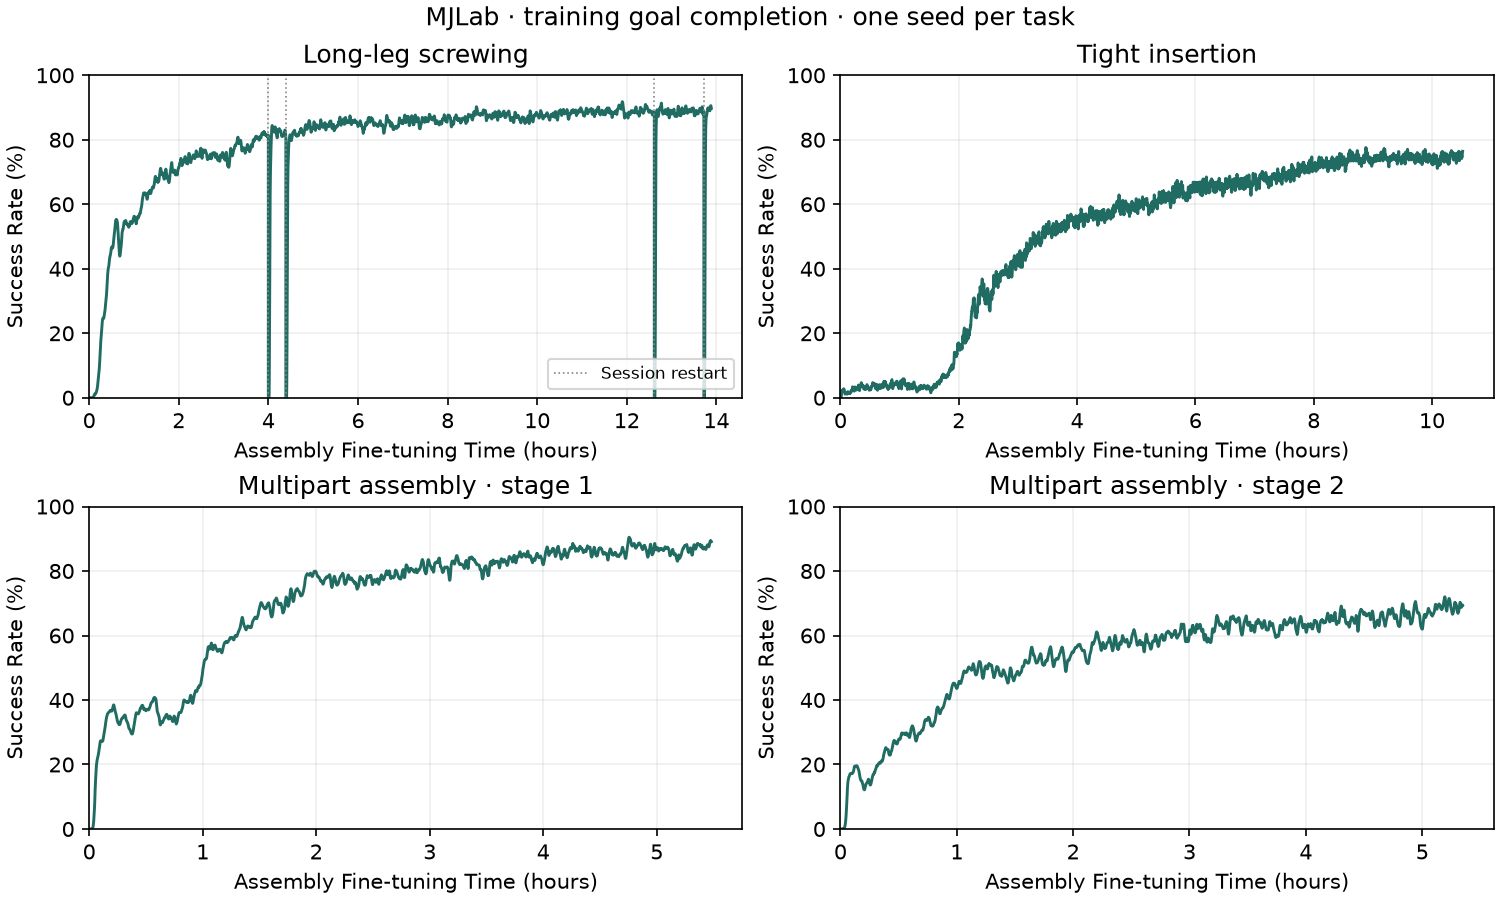
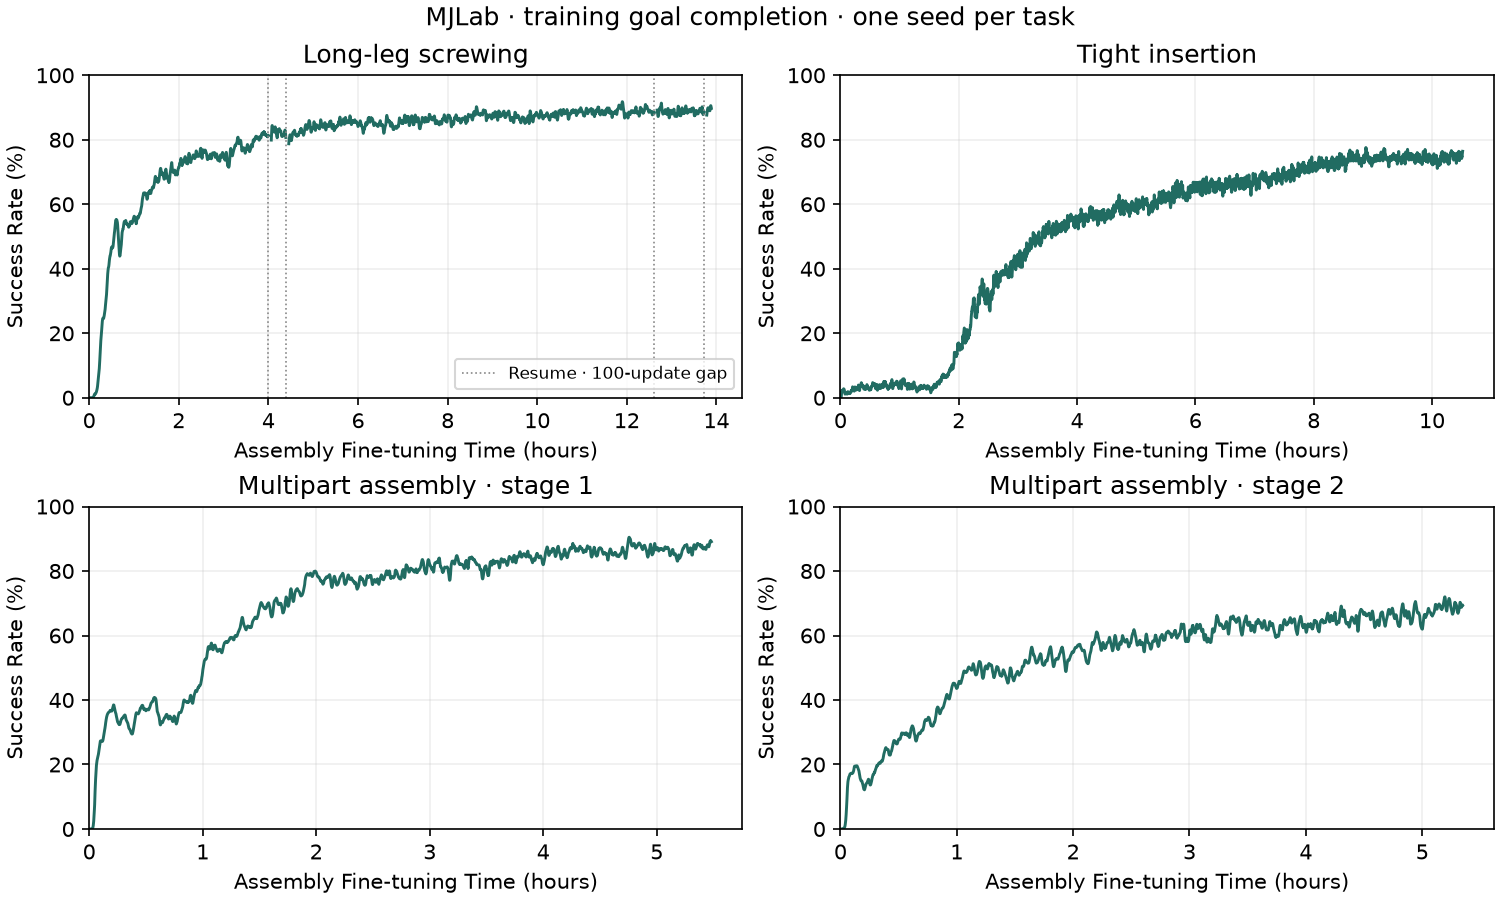
Mark resume counter warm-up as gaps in assembly overview

Changed region(s): [[0.1533, 0.1556, 0.2147, 0.4356], [0.4293, 0.1244, 0.4907, 0.3733], [0.3373, 0.4044, 0.4907, 0.4356]]

diff --git a/mjlab/scripts/plot_reference_curves.py b/mjlab/scripts/plot_reference_curves.py
@@ -18,6 +18,8 @@ matplotlib.use("Agg")
 import matplotlib.pyplot as plt
 import numpy as np
 
+RESTART_DISPLAY_WARMUP = 100
+
 
 def trailing_mean(values, restarts, window=20):
     result, start = [], 0
@@ -86,11 +88,25 @@ def main():
         overview_axis.set_ylabel("Mean rollout reward")
         overview_axis.grid(alpha=0.2)
         smoothed_success = trailing_mean(ys[1], restarts)
+        display_success = smoothed_success.copy()
+        restart_gaps = []
+        for start in map(int, np.flatnonzero(restarts)):
+            stop = min(start + RESTART_DISPLAY_WARMUP, len(rows))
+            display_success[start:stop] = np.nan
+            restart_gaps.append(
+                {
+                    "first_epoch": int(columns["epoch"][start]),
+                    "last_epoch": int(columns["epoch"][stop - 1]),
+                    "updates": stop - int(start),
+                    "start_hours": float(xs[1][start]),
+                    "end_hours": float(xs[1][stop - 1]),
+                }
+            )
         for success_axis in (
             success_axes.flat[len(summary)],
             mobile_axes[len(summary)],
         ):
-            success_axis.plot(xs[1], smoothed_success, color="#216c62", linewidth=1.4)
+            success_axis.plot(xs[1], display_success, color="#216c62", linewidth=1.4)
             success_axis.set(
                 title=info["title"].replace("Beam stage", "Multipart assembly · stage"),
                 xlabel="Assembly Fine-tuning Time (hours)",
@@ -105,7 +121,7 @@ def main():
                     color="#888888",
                     linewidth=0.8,
                     linestyle=":",
-                    label="Session restart" if index == 0 else None,
+                    label="Resume · 100-update gap" if index == 0 else None,
                 )
             if restarts.any():
                 success_axis.legend(loc="lower right", fontsize=8)
@@ -117,6 +133,7 @@ def main():
             "final_raw_percent": float(ys[1][-1]),
             "training_hours": float(xs[1][-1]),
             "data_sha256": info["sha256"],
+            "restart_display_gaps": restart_gaps,
         }
     overview.suptitle("MJLab assembly fine-tuning from the pre-trained play policy")
     overview.savefig(args.output / "reward_overview.png", dpi=150)
@@ -132,6 +149,11 @@ def main():
             {
                 "metric": "Training all-goal completion, not clean-release evaluation",
                 "smoothing": "Trailing mean of up to 20 updates; reset per session",
+                "overview_display": "The first 100 updates after each recorded "
+                "resume are omitted as gaps. This fixed display rule removes "
+                "counter warm-up; it does not prove every world has completed an "
+                "episode by update 100. Initial training is retained. Detailed "
+                "plots, raw data, final values and peaks remain unfiltered.",
                 "time": manifest["time_definition"],
                 "runs": summary,
             },

diff --git a/mjlab/docs/REPRODUCING.md b/mjlab/docs/REPRODUCING.md
@@ -30,7 +30,7 @@ require clean withdrawal or retention after release. The x-axis is
 | Multipart stage 1 | 89.1% | 90.5% |
 | Multipart stage 2 | 69.4% | 72.0% |
 
-These are the final and peak values of the plotted trailing mean, not frozen-policy
+These are the final and peak values of the unfiltered trailing mean, not frozen-policy
 test scores. All four tasks are shown. Raw values and exact summaries are available
 in the [reference data](reference/manifest.json) and [plot summary](media/success_summary.json).
 
@@ -43,7 +43,13 @@ in the [reference data](reference/manifest.json) and [plot summary](media/succes
 
 Each line uses a trailing mean of up to 20 updates, reset at each session boundary.
 The included compressed CSV files retain every accepted scalar without smoothing.
-The dotted lines mark session restarts; brief dips include reset episode counters.
+The overview leaves a gap for the first 100 updates after each recorded resume.
+The logger resets every world's previous-episode score to zero; counters refill
+as new episodes end. This fixed display rule removes that warm-up from the overview.
+It does not establish that every world has completed an episode by update 100.
+The initial learning curve is retained. Dotted lines mark the resumes. Detailed
+plots, raw CSVs and the final/peak table remain unfiltered; all other fluctuations
+remain visible. Each omitted epoch range is recorded in the plot summary.
 Reward is the shaped reward per control step, averaged over six equal-size SAPG
 blocks. It is not episode return. Each task has its own reward scale.
 

diff --git a/mjlab/README.md b/mjlab/README.md
@@ -29,8 +29,9 @@ checkpoint budgets, evaluation protocols and release-stability results.
 ![MJLab training success rates from the pre-trained play policy](docs/media/success_overview.png)
 
 Success here means all assembly goals reached during training. The curves use a
-20-update trailing mean and a 0–100% scale. Clean withdrawal is measured separately
-in the table above. [Reward curves and metric definitions](docs/REPRODUCING.md#reference-results)
+20-update trailing mean and a 0–100% scale. Short gaps omit the first 100 updates
+after each resume while episode counters refill. Clean withdrawal is measured
+separately in the table above. [Unfiltered curves and metric definitions](docs/REPRODUCING.md#reference-results)
 remain available.
 
 ## Install and prepare
